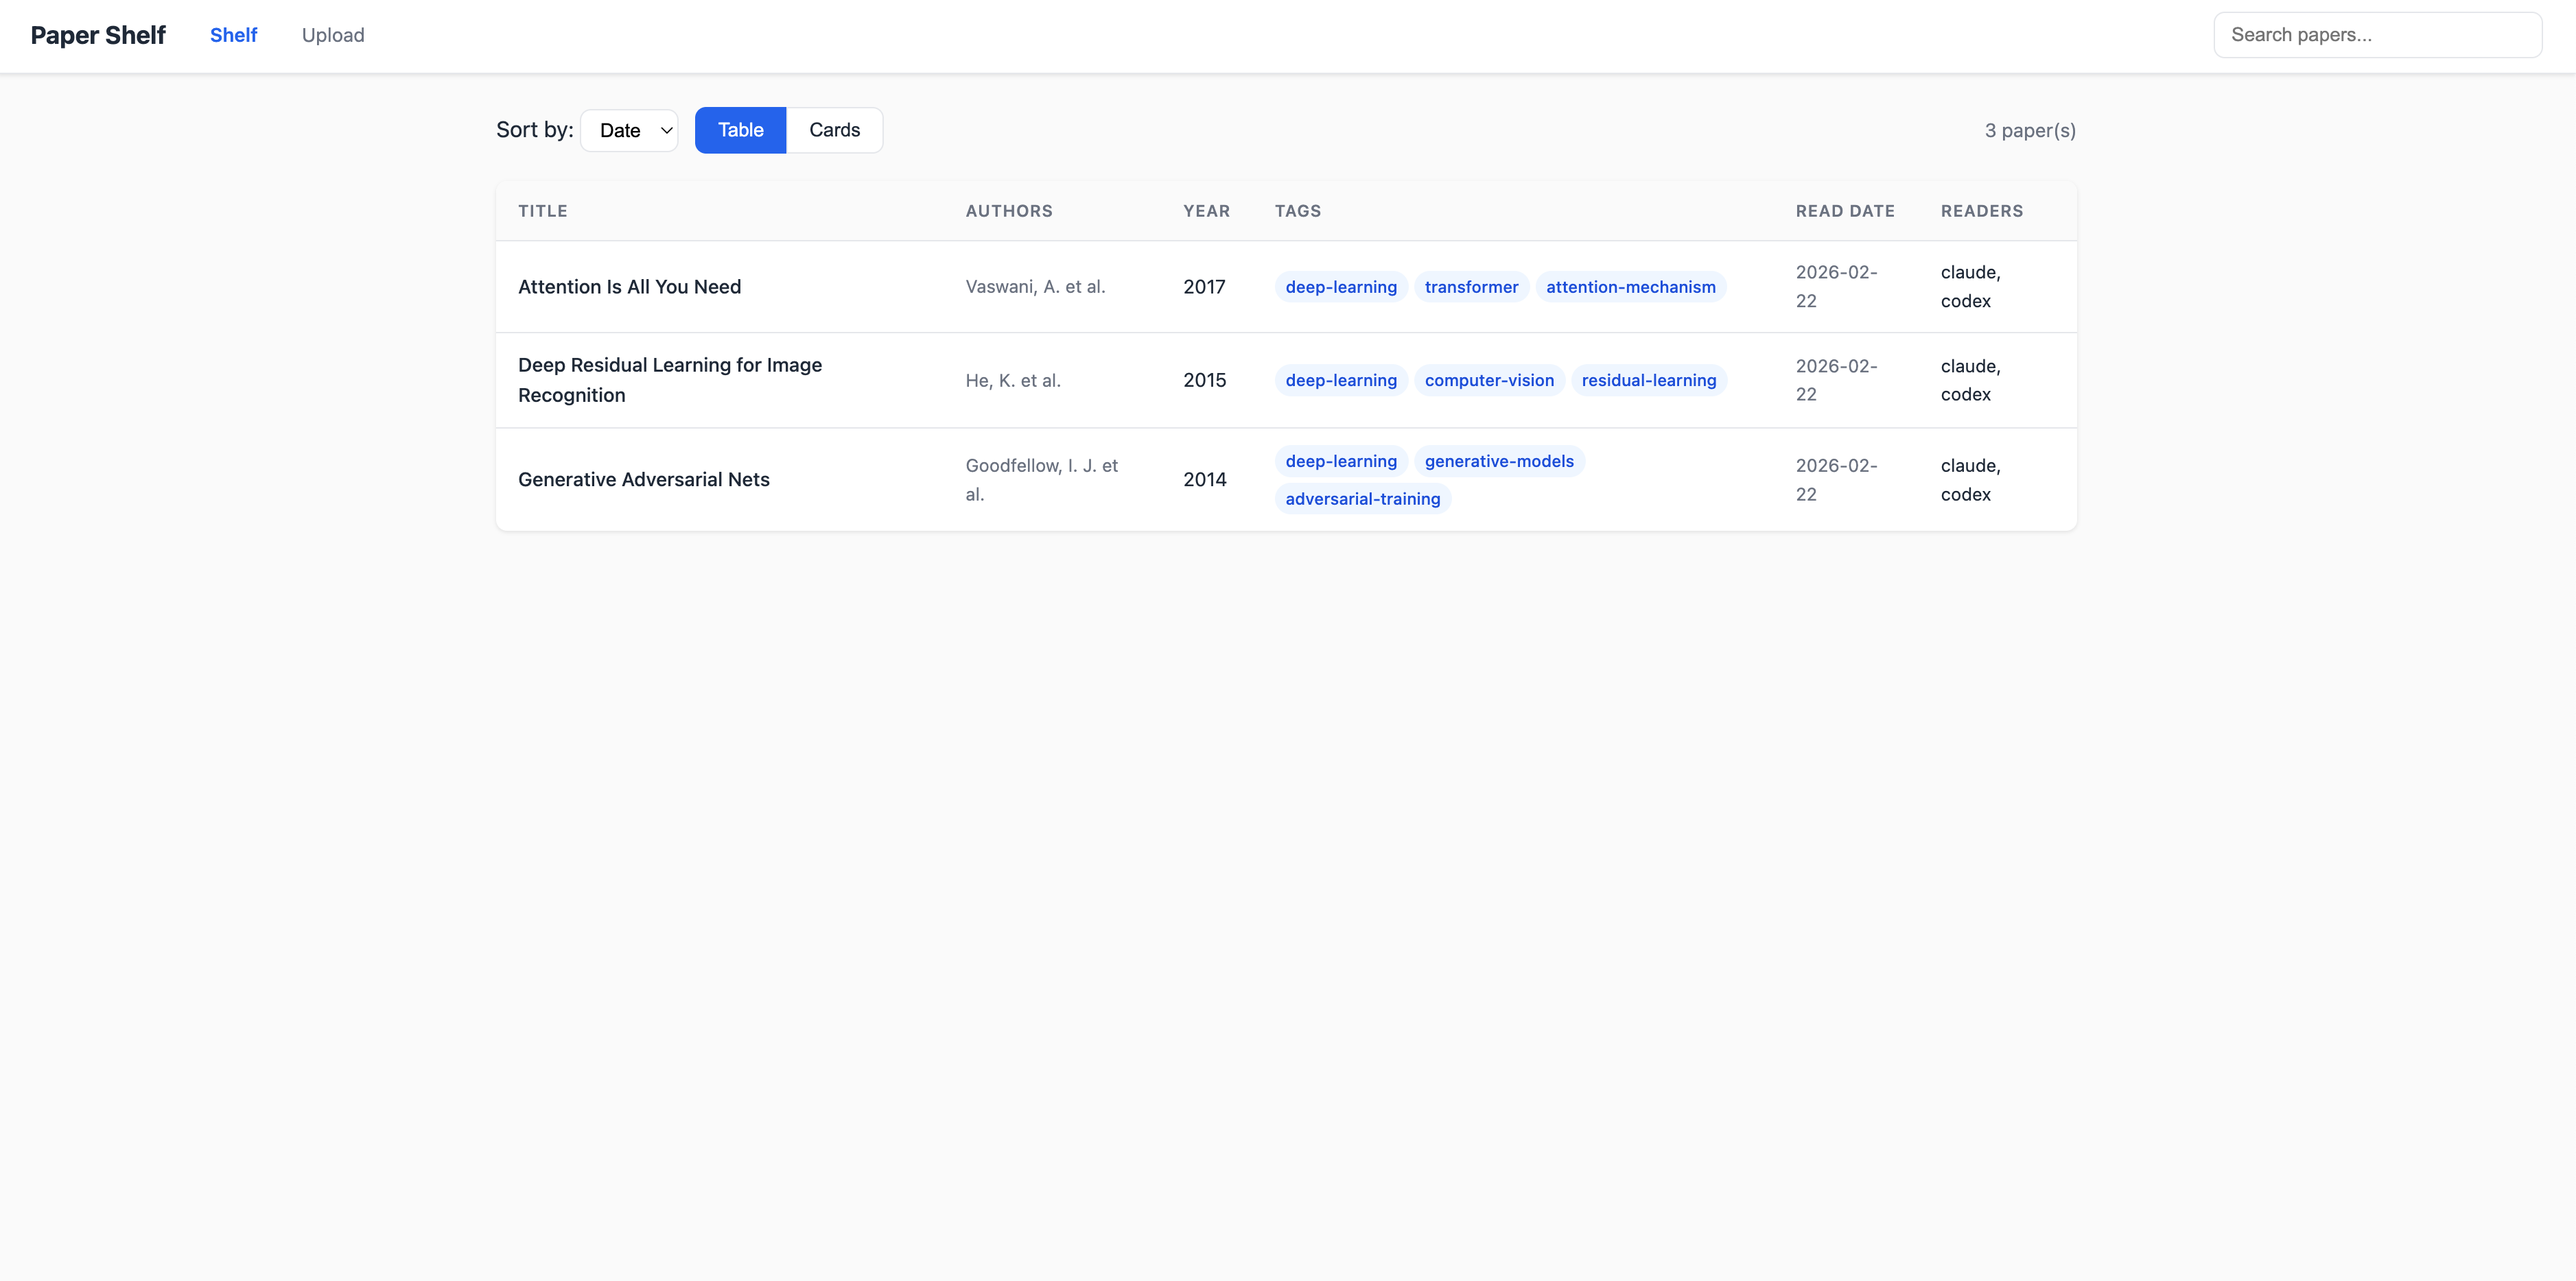
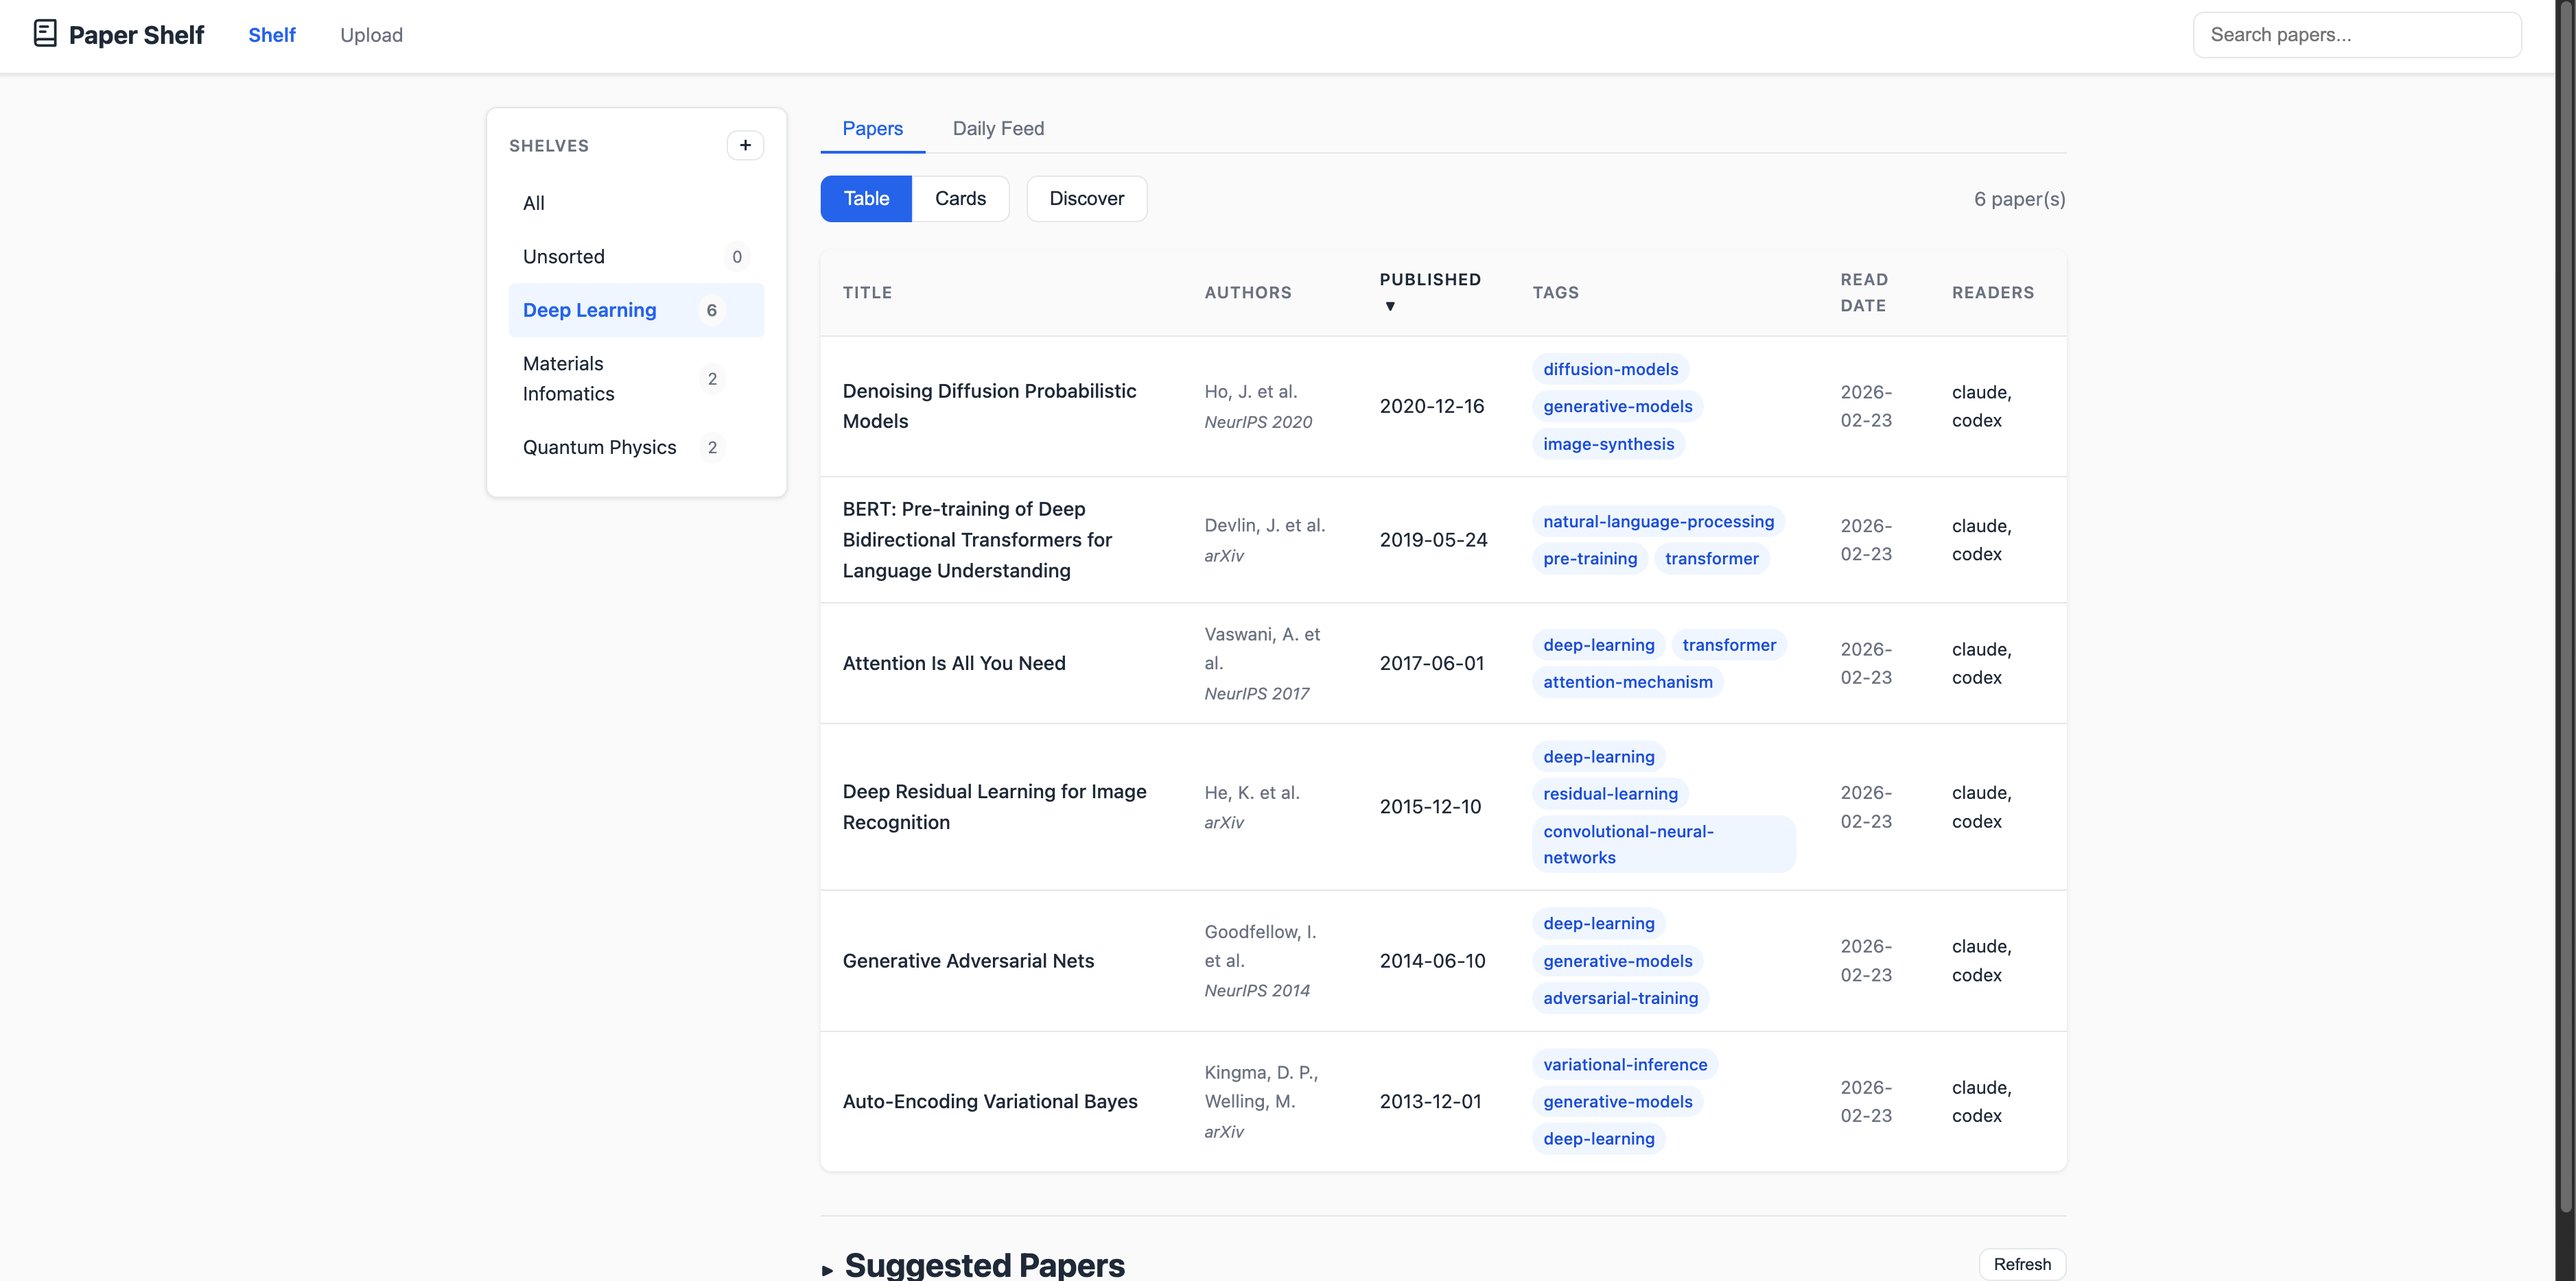
Update README with new features and screenshots

diff --git a/README.md b/README.md
@@ -7,17 +7,43 @@ A personal academic paper library powered by LLMs. Upload PDFs and let Claude an
 - **Multi-LLM reading** — Claude and OpenAI Codex read your papers independently, enabling side-by-side comparison
 - **Bilingual output** — Every section (abstract, methodology, results, etc.) is generated in both English and Japanese with a one-click Ja/En toggle
 - **Critical analysis** — AI-generated critique identifying assumptions, weaknesses, and unverified claims
-- **Paper discovery** — Find related papers and library-wide recommendations powered by [OpenAlex](https://openalex.org/)
+- **Interactive chat** — Ask follow-up questions about any paper in context
+- **Paper discovery** — Find related papers powered by [OpenAlex](https://openalex.org/), with one-click reading from arXiv
+- **Daily Feed** — Curated new paper recommendations per shelf, combining arXiv and OpenAlex
+- **Shelves** — Organize papers into custom shelves with bilingual names
+- **Multi-file upload** — Drag & drop multiple PDFs at once with per-file progress tracking
 - **Web UI** — Browse your library, upload papers, and view reading results through an intuitive interface
-- **Shelves** — Organize papers into custom shelves with virtual auto-sorted shelves
-- **PDF archive** — Source PDFs are saved alongside reading results for easy reference
 - **CLI** — Full command-line interface for scripting and automation
 - **Structured storage** — Results saved as both JSON (machine-readable) and Markdown (human-readable)
 
 ## Screenshots
 
+### Library
+
 ![Shelf](docs/screenshots/shelf.png)
-![Detail](docs/screenshots/detail.png)
+
+### Reading
+
+![Reading](docs/screenshots/reading.png)
+
+### Critical Analysis
+
+![Critique](docs/screenshots/critique.png)
+
+### Chat
+
+![Chat](docs/screenshots/chat.png)
+
+### Related Papers
+
+![Discovery](docs/screenshots/discovery.png)
+
+### Daily Feed
+
+![Feed](docs/screenshots/feed.png)
+
+### Upload
+
 ![Upload](docs/screenshots/upload.png)
 
 ## Quick Start
@@ -98,19 +124,26 @@ paper-shelf/
 │   ├── storage.py            # JSON + Markdown storage
 │   ├── library.py            # Library index management
 │   ├── discovery.py          # Paper discovery via OpenAlex API
+│   ├── arxiv_client.py       # arXiv API client
+│   ├── daily_feed.py         # Daily Feed generation
+│   ├── critique.py           # Critical analysis generation
 │   ├── exceptions.py         # Exception hierarchy
 │   └── server/               # FastAPI backend
 │       ├── app.py            # App factory, static file serving
 │       ├── routes_papers.py  # Paper CRUD + PDF serving
 │       ├── routes_upload.py  # Upload + background task management
+│       ├── routes_shelves.py # Shelf management
 │       ├── routes_discovery.py # Paper discovery endpoints
-│       └── tasks.py          # Background reading pipeline
+│       ├── routes_critique.py  # Critique + chat endpoints
+│       ├── routes_feed.py    # Daily Feed endpoints
+│       └── tasks.py          # Background task pipelines
 ├── web/                      # React + TypeScript frontend (Vite)
 ├── prompts/                  # LLM prompt templates and JSON schema
 ├── library/                  # Output directory (gitignored)
 │   ├── json/                 # Structured reading results
 │   ├── markdown/             # Human-readable summaries
-│   └── pdfs/                 # Archived source PDFs
+│   ├── pdfs/                 # Archived source PDFs
+│   └── feeds/                # Daily Feed cache per shelf
 └── tests/                    # pytest test suite
 ```
 
@@ -120,14 +153,17 @@ paper-shelf/
 2. **Read** — Claude and/or Codex analyze the paper using a structured prompt, producing bilingual JSON output
 3. **Store** — Results are saved as JSON + Markdown, source PDF is archived
 4. **Critique** — Claude generates a critical analysis of the paper's assumptions, weaknesses, and applications
-5. **Discover** — OpenAlex API finds related papers based on your library
-6. **Browse** — View, search, and compare readings through the web UI or CLI
+5. **Chat** — Ask follow-up questions about the paper with full context (text, readings, critique)
+6. **Discover** — OpenAlex finds related papers; read them directly from arXiv with one click
+7. **Feed** — arXiv + OpenAlex surface new papers matching each shelf's research themes
+8. **Browse** — View, search, and compare readings through the web UI or CLI
 
 ## Powered by
 
-- **[Claude Code](https://claude.com/claude-code)** (Anthropic) — Paper reading, critical analysis, and search query generation, using Claude Sonnet 4
+- **[Claude Code](https://claude.com/claude-code)** (Anthropic) — Paper reading, critical analysis, chat, and search query generation, using Claude Sonnet 4
 - **[OpenAI Codex CLI](https://github.com/openai/codex)** — Optional second reader for comparison
 - **[OpenAlex](https://openalex.org/)** — Open scholarly metadata for paper discovery and related paper recommendations. OpenAlex data is licensed under [CC0](https://creativecommons.org/publicdomain/zero/1.0/)
+- **[arXiv](https://arxiv.org/)** — Preprint search for Daily Feed
 
 ## Development Note
 
